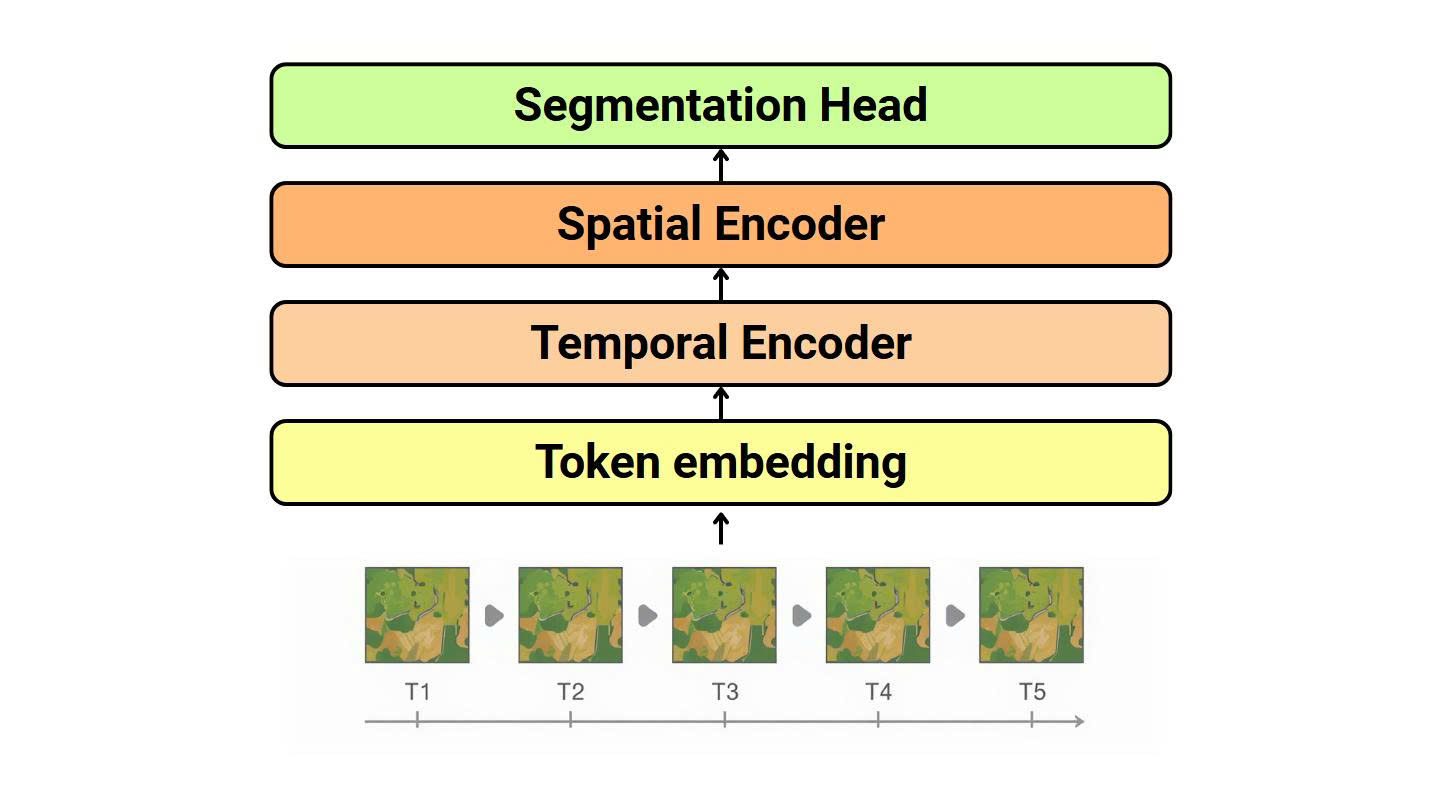
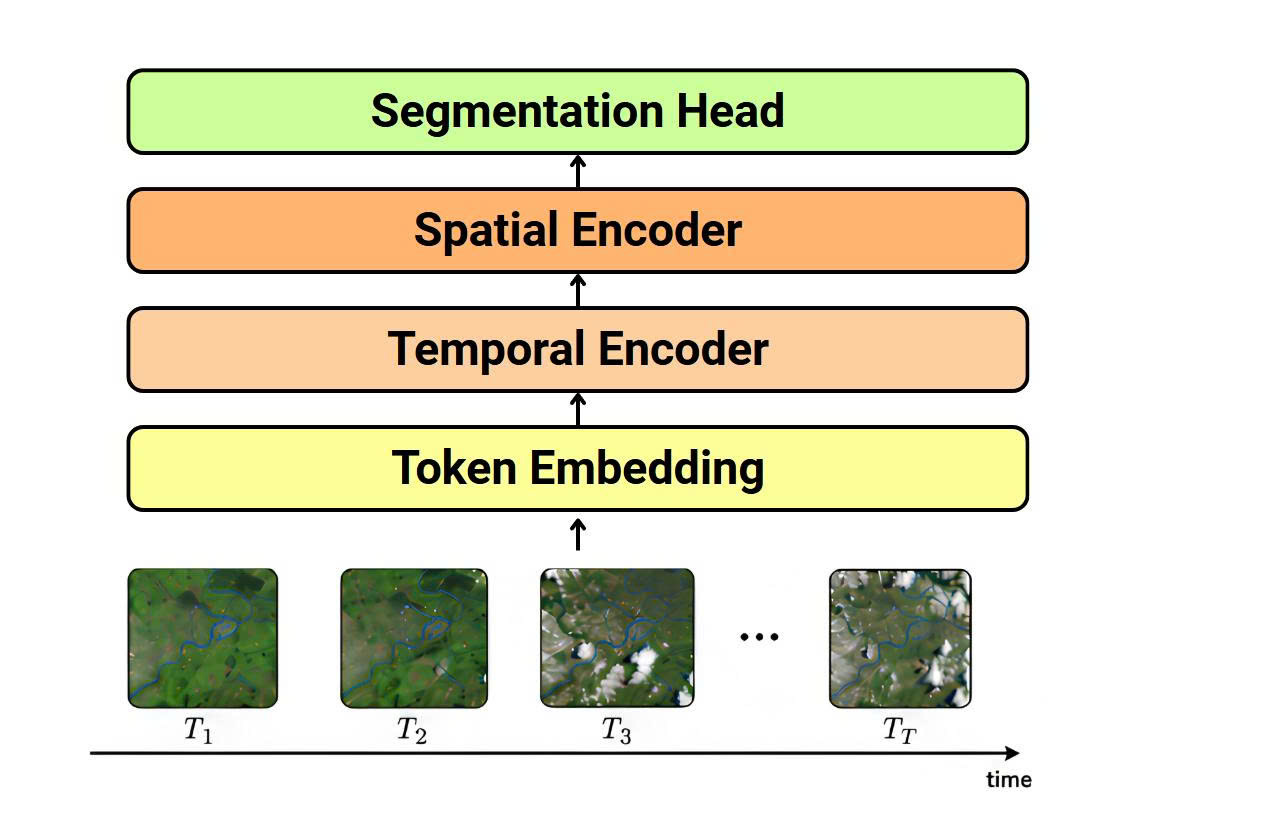
Update TSViT architecture figures

Changed region(s): [[0.0915, 0.0605, 0.8239, 0.665], [0.061, 0.6952, 0.8239, 0.9673], [0.7934, 0.2116, 0.8239, 0.3325]]

diff --git a/docs/index.html b/docs/index.html
@@ -468,45 +468,49 @@
       </section>
       <section id="models">
         <div class="section-title">
-          <h2>Mô hình đã chạy</h2>
+          <h2>M&ocirc; h&igrave;nh &dstrok;&atilde; ch&#7841;y</h2>
           <p>
-            Nhóm giữ TSViT full làm mô hình chính, UNet3D làm baseline CNN, còn TViT/STViT để kiểm chứng đóng góp của spatial modeling và thứ tự temporal-spatial.
-            Các hình TSViT bên dưới là ảnh kiến trúc nhóm dùng để trình bày, không phải sơ đồ placeholder.
+            Nh&oacute;m gi&#7919; TSViT full l&agrave;m m&ocirc; h&igrave;nh ch&iacute;nh, UNet3D l&agrave;m baseline CNN, c&ograve;n TViT/STViT &dstrok;&#7875; ki&#7875;m ch&#7913;ng &dstrok;&oacute;ng g&oacute;p c&#7911;a spatial modeling v&agrave; th&#7913; t&#7921; temporal-spatial.
+            C&aacute;c h&igrave;nh TSViT b&ecirc;n d&#432;&#7899;i l&agrave; &#7843;nh ki&#7871;n tr&uacute;c nh&oacute;m d&ugrave;ng &dstrok;&#7875; tr&igrave;nh b&agrave;y, kh&ocirc;ng ph&#7843;i s&#417; &dstrok;&#7891; placeholder.
           </p>
         </div>
         <div class="grid two">
           <figure class="card figure">
             <img src="assets/architecture-tsvit-full.jpg" alt="TSViT full architecture">
-            <figcaption class="figure-caption">TSViT full: chuỗi ảnh vệ tinh được token hóa, đi qua temporal encoder, spatial encoder, rồi segmentation head.</figcaption>
+            <figcaption class="figure-caption">T&#7893;ng quan TSViT: chu&#7895;i &#7843;nh v&#7879; tinh &dstrok;i qua Token Embedding, Temporal Encoder, Spatial Encoder v&agrave; Segmentation Head.</figcaption>
+          </figure>
+          <figure class="card figure">
+            <img src="assets/architecture-token-embedding.png" alt="TSViT token embedding">
+            <figcaption class="figure-caption">Token Embedding: chia &#7843;nh theo t&#7915;ng th&#7901;i &dstrok;i&#7875;m th&agrave;nh patch, flatten v&agrave; chi&#7871;u tuy&#7871;n t&iacute;nh th&agrave;nh token tr&#432;&#7899;c khi &dstrok;&#432;a v&agrave;o Temporal Encoder.</figcaption>
           </figure>
           <figure class="card figure">
             <img src="assets/architecture-temporal-encoder.jpg" alt="TSViT temporal encoder">
-            <figcaption class="figure-caption">Temporal encoder: học biến động theo thời gian cho từng patch, dùng DOY/temporal position để phân biệt giai đoạn mùa vụ.</figcaption>
+            <figcaption class="figure-caption">Temporal Encoder: h&#7885;c bi&#7871;n &dstrok;&#7897;ng theo th&#7901;i gian cho t&#7915;ng v&#7883; tr&iacute; patch, k&#7871;t h&#7907;p DOY/temporal positional embedding.</figcaption>
           </figure>
           <figure class="card figure">
             <img src="assets/architecture-spatial-encoder.jpg" alt="TSViT spatial encoder">
-            <figcaption class="figure-caption">Spatial encoder: sau khi temporal features đã được rút gọn theo lớp, mô hình học quan hệ không gian giữa các patch.</figcaption>
+            <figcaption class="figure-caption">Spatial Encoder: h&#7885;c quan h&#7879; kh&ocirc;ng gian gi&#7919;a c&aacute;c patch sau khi &dstrok;&#7863;c tr&#432;ng th&#7901;i gian &dstrok;&atilde; &dstrok;&#432;&#7907;c tr&iacute;ch xu&#7845;t.</figcaption>
           </figure>
           <figure class="card figure">
-            <img src="assets/architecture-segmentation-head.jpg" alt="TSViT segmentation head">
-            <figcaption class="figure-caption">Segmentation head: ánh xạ token về pixel-level logits, reassemble thành segmentation map cuối cùng.</figcaption>
+            <img src="assets/architecture-segmentation-head.png" alt="TSViT segmentation head">
+            <figcaption class="figure-caption">Segmentation Head: &aacute;nh x&#7841; token v&#7873; pixel-level logits, reshape v&agrave; reassemble th&agrave;nh segmentation map cu&#7889;i c&ugrave;ng.</figcaption>
           </figure>
         </div>
         <div class="note" style="margin: 18px 0 12px;">
-          Với UNet3D, TViT và STViT, demo giữ sơ đồ tóm tắt để nhấn mạnh vai trò trong thí nghiệm: baseline CNN, temporal-only ablation và spatial-first ablation.
+          V&#7899;i UNet3D, TViT v&agrave; STViT, demo gi&#7919; s&#417; &dstrok;&#7891; t&oacute;m t&#7855;t &dstrok;&#7875; nh&#7845;n m&#7841;nh vai tr&ograve; trong th&iacute; nghi&#7879;m: baseline CNN, temporal-only ablation v&agrave; spatial-first ablation.
         </div>
         <div class="grid three">
           <figure class="card figure">
             <img src="assets/architecture-unet3d.svg" alt="UNet3D architecture">
-            <figcaption class="figure-caption">UNet3D: baseline convolution 3D, dùng để so sánh với TSViT ở CQ1.</figcaption>
+            <figcaption class="figure-caption">UNet3D: baseline convolution 3D, d&ugrave;ng &dstrok;&#7875; so s&aacute;nh v&#7899;i TSViT &#7903; CQ1.</figcaption>
           </figure>
           <figure class="card figure">
             <img src="assets/architecture-tvit.svg" alt="TViT temporal-only architecture">
-            <figcaption class="figure-caption">TViT: bỏ spatial encoder, dùng để đo mức giảm khi không học quan hệ không gian.</figcaption>
+            <figcaption class="figure-caption">TViT: b&#7887; spatial encoder, d&ugrave;ng &dstrok;&#7875; &dstrok;o m&#7913;c gi&#7843;m khi kh&ocirc;ng h&#7885;c quan h&#7879; kh&ocirc;ng gian.</figcaption>
           </figure>
           <figure class="card figure">
             <img src="assets/architecture-stvit.svg" alt="STViT spatial-first architecture">
-            <figcaption class="figure-caption">STViT: đảo thứ tự thành spatial-first, dùng để kiểm tra thiết kế temporal-first của TSViT.</figcaption>
+            <figcaption class="figure-caption">STViT: &dstrok;&#7843;o th&#7913; t&#7921; th&agrave;nh spatial-first, d&ugrave;ng &dstrok;&#7875; ki&#7875;m tra thi&#7871;t k&#7871; temporal-first c&#7911;a TSViT.</figcaption>
           </figure>
         </div>
       </section>
